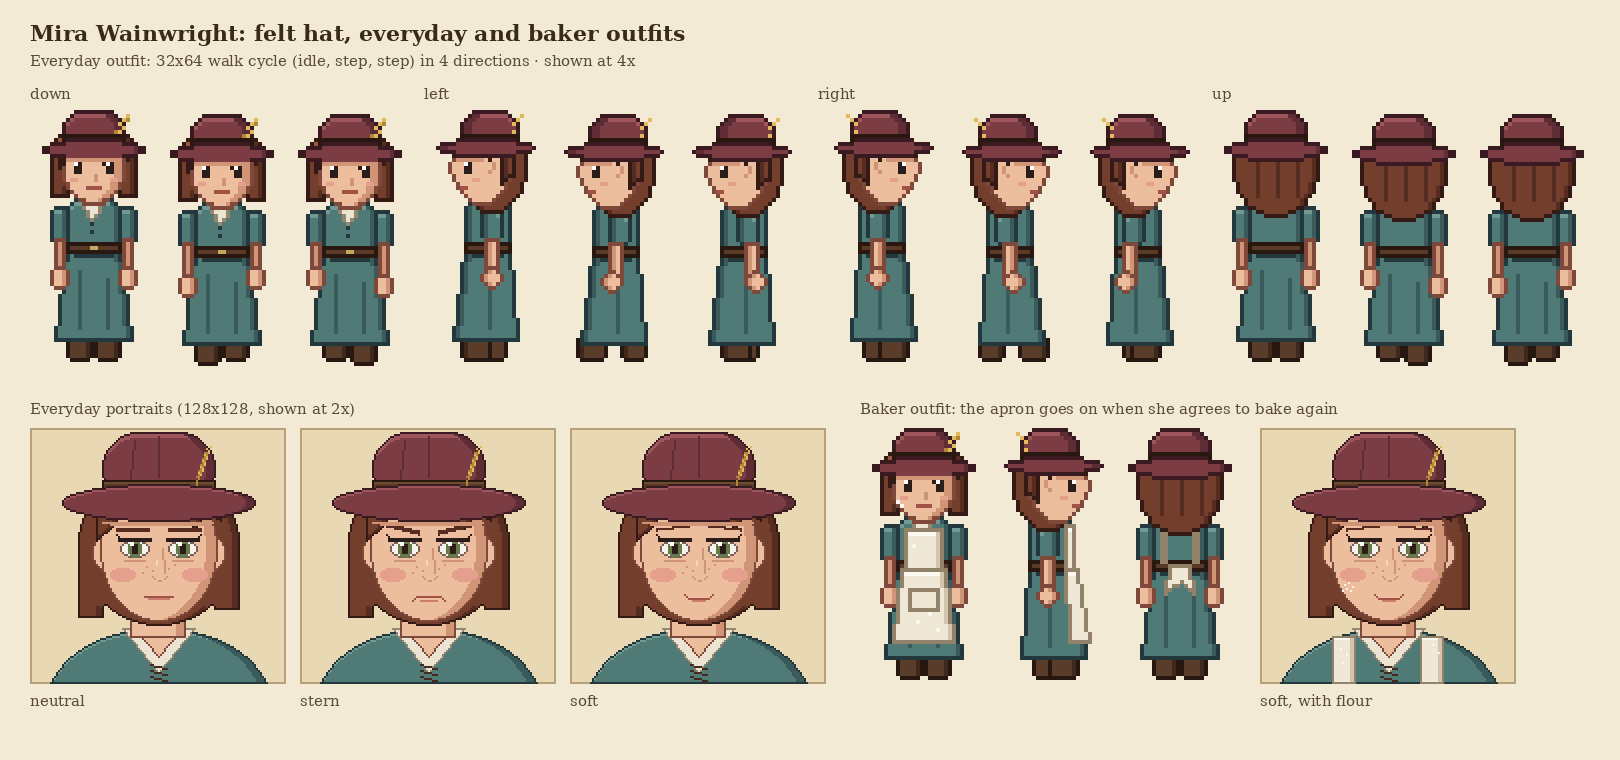
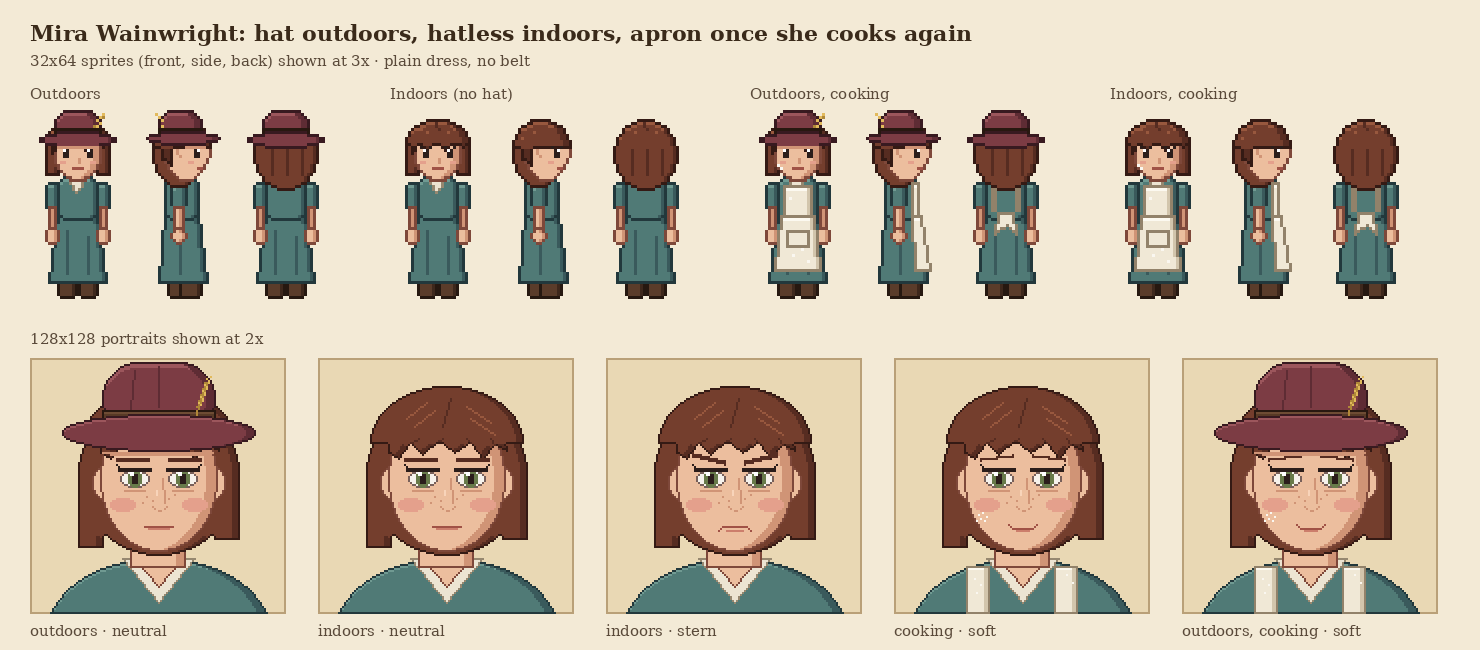
Mira: plain dress without belt, hat outdoors / hatless indoors, apron when cooking
Claude-Session: https://claude.ai/code/session_01NvFAa9nga9ook5zdC6nh3r

diff --git a/tools/concept_art/mira_hd.py b/tools/concept_art/mira_hd.py
@@ -1,6 +1,7 @@
 """Higher-resolution concept art for Mira Wainwright: 32x64 walk sprites and 128x128 portraits.
 
-Two outfits: everyday (felt hat, belted dress) and baker (same + apron, once she agrees to bake again).
+Variants: felt hat outdoors / hatless indoors, and the apron once she decides to cook again.
+Plain dress, no belt: she's a town baker, not an adventurer.
 
 Run: python3 tools/concept_art/mira_hd.py   (writes to docs/concept-art/mira/)
 Built from shaded, outlined shapes (each material has its own outline colour). Concept quality.
@@ -75,7 +76,7 @@ def hat_front(im, by, back=False):
         put(im, [(21, 5 + by), (24, 2 + by)], WHEAT_D)
 
 
-def sprite_front(step=0, back=False, apron=False):
+def sprite_front(step=0, back=False, apron=False, hat=True):
     im = Image.new("RGBA", (32, 64), (0, 0, 0, 0))
     by = 1 if step else 0          # body bob on step frames
     lb, rb = (step, -step)         # boot offsets
@@ -89,11 +90,8 @@ def sprite_front(step=0, back=False, apron=False):
         part(im, lambda d, x0=x0, x1=x1: d.rectangle((x0 + 1, 32 + by, x1 - 1, 41 + by + sw), fill=255), SKIN, light_top=0)
         part(im, lambda d, x0=x0, x1=x1: d.ellipse((x0, 39 + by + sw, x1, 44 + by + sw), fill=255), SKIN, light_top=0)
     part(im, lambda d: d.rounded_rectangle((9, 22 + by, 22, 36 + by), 3, fill=255), DRESS)
-    part(im, lambda d: d.rectangle((9, 33 + by, 22, 35 + by), fill=255), BELT, shade=(0, 0), light_top=0)
     if not back:
-        put(im, [(15, 34 + by), (16, 34 + by)], (196, 168, 96))                      # buckle
         part(im, lambda d: d.polygon([(12, 22 + by), (19, 22 + by), (15, 27 + by)], fill=255), LINEN, shade=(0, 0), light_top=0)
-        put(im, [(15, 28 + by), (15, 30 + by)], DRESS[0])                             # laces
     if apron and not back:
         part(im, lambda d: d.polygon([(10, 35 + by), (21, 35 + by), (23, 53 + by), (8, 53 + by)], fill=255), APRON, shade=(2, 0))
         part(im, lambda d: d.rectangle((11, 25 + by, 20, 35 + by), fill=255), APRON)
@@ -111,7 +109,9 @@ def sprite_front(step=0, back=False, apron=False):
     else:  # bob: crown plus straight locks beside the face (none under the chin)
         part(im, lambda d: (d.ellipse((5, 3 + by, 26, 19 + by), fill=255), d.rectangle((5, 10 + by, 9, 21 + by), fill=255), d.rectangle((22, 10 + by, 26, 21 + by), fill=255)), HAIR)
         part(im, lambda d: d.ellipse((8, 5 + by, 23, 23 + by), fill=255), SKIN, shade=(3, 0), light_top=0)
-        part(im, lambda d: d.polygon([(7, 9 + by), (24, 9 + by), (24, 12 + by), (21, 11 + by), (18, 13 + by), (15, 11 + by), (12, 13 + by), (9, 11 + by), (7, 14 + by)], fill=255), HAIR, light_top=0)
+        part(im, lambda d: (d.chord((5, 3 + by, 26, 19 + by), 180, 360, fill=255),
+                            d.polygon([(7, 9 + by), (24, 9 + by), (24, 12 + by), (21, 11 + by), (18, 13 + by), (15, 11 + by), (12, 13 + by), (9, 11 + by), (7, 14 + by)], fill=255)),
+             HAIR, shade=(3, 0))
         y = 13 + by
         for ex in (11, 19):
             put(im, [(ex, y), (ex + 1, y), (ex, y + 1), (ex + 1, y + 1), (ex, y + 2), (ex + 1, y + 2)], INK)
@@ -122,12 +122,16 @@ def sprite_front(step=0, back=False, apron=False):
         put(im, [(10, 17 + by), (11, 17 + by), (20, 17 + by), (21, 17 + by)], BLUSH)
         if apron:
             put(im, [(9, 18 + by), (10, 19 + by)], FLOUR)
-    hat_front(im, by, back)
-    put(im, [(x, 12 + by) for x in range(9, 23)] if not back else [], SKIN[1])  # shadow under the brim
+    if hat:
+        hat_front(im, by, back)
+        put(im, [(x, 12 + by) for x in range(9, 23)] if not back else [], SKIN[1])  # shadow under the brim
+    else:
+        put(im, [(10, 6 + by), (13, 4 + by), (18, 4 + by), (21, 6 + by), (12, 7 + by), (19, 7 + by)], HAIR[3])
+        put(im, [(15, 4 + by), (15, 5 + by), (16, 6 + by)], HAIR[1])  # parting
     return im
 
 
-def sprite_side(step=0, apron=False):
+def sprite_side(step=0, apron=False, hat=True):
     """Facing right."""
     im = Image.new("RGBA", (32, 64), (0, 0, 0, 0))
     by = 1 if step else 0
@@ -137,7 +141,6 @@ def sprite_side(step=0, apron=False):
     part(im, lambda d: d.polygon([(10, 33 + by), (21, 33 + by), (24, 57 + by), (8, 57 + by)], fill=255), DRESS)
     put(im, [(15, y + by) for y in range(41, 55)], DRESS[1])
     part(im, lambda d: d.rounded_rectangle((10, 22 + by, 21, 36 + by), 3, fill=255), DRESS)
-    part(im, lambda d: d.rectangle((10, 33 + by, 21, 35 + by), fill=255), BELT, shade=(0, 0), light_top=0)
     if apron:
         part(im, lambda d: d.polygon([(19, 35 + by), (22, 35 + by), (25, 53 + by), (20, 53 + by)], fill=255), APRON, shade=(0, 0))
         part(im, lambda d: d.rectangle((19, 24 + by, 21, 35 + by), fill=255), APRON, shade=(0, 0))
@@ -148,30 +151,33 @@ def sprite_side(step=0, apron=False):
     part(im, lambda d: d.rectangle((14, 18 + by, 18, 23 + by), fill=255), SKIN, shade=(0, 0), light_top=0)
     part(im, lambda d: d.ellipse((6, 3 + by, 23, 25 + by), fill=255), HAIR)
     part(im, lambda d: (d.ellipse((10, 5 + by, 24, 23 + by), fill=255), d.rectangle((23, 13 + by, 25, 15 + by), fill=255)), SKIN, shade=(0, 0), light_top=0)
-    part(im, lambda d: d.polygon([(9, 9 + by), (24, 9 + by), (24, 11 + by), (21, 12 + by), (18, 10 + by), (15, 12 + by), (12, 11 + by), (12, 18 + by), (9, 16 + by)], fill=255), HAIR, light_top=0)
+    part(im, lambda d: (d.chord((6, 3 + by, 25, 21 + by), 180, 360, fill=255),
+                        d.polygon([(9, 9 + by), (24, 9 + by), (24, 11 + by), (21, 12 + by), (18, 10 + by), (15, 12 + by), (12, 11 + by), (12, 18 + by), (9, 16 + by)], fill=255)),
+         HAIR, shade=(3, 0))
     put(im, [(14, 13 + by), (14, 14 + by), (15, 15 + by)], SKIN[1])  # ear hint
     put(im, [(20, 13 + by), (21, 13 + by), (20, 14 + by), (21, 14 + by), (20, 15 + by), (21, 15 + by)], INK)
     put(im, [(21, 13 + by)], (255, 255, 255))
     put(im, [(19, 12 + by), (22, 12 + by)], INK)
     put(im, [(21, 19 + by), (22, 19 + by)], MOUTH)
     put(im, [(18, 17 + by), (19, 17 + by)], BLUSH)
-    part(im, lambda d: d.rounded_rectangle((8, 0 + by, 22, 9 + by), 5, fill=255), HAT, shade=(3, 0))
-    part(im, lambda d: d.rectangle((8, 6 + by, 22, 8 + by), fill=255), BAND, shade=(0, 0), light_top=0)
-    part(im, lambda d: d.ellipse((4, 7 + by, 28, 11 + by), fill=255), HAT, shade=(3, 0), light_top=0)
-    put(im, [(9, 3 + by), (8, 2 + by), (7, 1 + by), (9, 5 + by)], WHEAT)
-    put(im, [(x, 12 + by) for x in range(17, 24)], SKIN[1])
+    if hat:
+        part(im, lambda d: d.rounded_rectangle((8, 0 + by, 22, 9 + by), 5, fill=255), HAT, shade=(3, 0))
+        part(im, lambda d: d.rectangle((8, 6 + by, 22, 8 + by), fill=255), BAND, shade=(0, 0), light_top=0)
+        part(im, lambda d: d.ellipse((4, 7 + by, 28, 11 + by), fill=255), HAT, shade=(3, 0), light_top=0)
+        put(im, [(9, 3 + by), (8, 2 + by), (7, 1 + by), (9, 5 + by)], WHEAT)
+        put(im, [(x, 12 + by) for x in range(17, 24)], SKIN[1])
+    else:
+        put(im, [(11, 5 + by), (14, 4 + by), (18, 5 + by), (9, 9 + by), (13, 7 + by)], HAIR[3])
     return im
 
 
 # ---------------------------------------------------------------- 128x128 portrait
-def portrait(expr, apron=False):
+def portrait(expr, apron=False, hat=True):
     im = Image.new("RGBA", (128, 128), (0, 0, 0, 0))
     part(im, lambda d: d.ellipse((8, 100, 120, 176), fill=255), DRESS, shade=(5, 0))
     part(im, lambda d: d.polygon([(46, 100), (82, 100), (64, 122)], fill=255), LINEN, shade=(0, 0), light_top=0)
     part(im, lambda d: d.polygon([(52, 100), (76, 100), (64, 114)], fill=255), SKIN, shade=(0, 0), light_top=0)
     d = ImageDraw.Draw(im)
-    for i in range(3):  # laces on the bodice
-        d.line([(60, 118 + i * 3), (68, 120 + i * 3)], fill=BAND[1] + (255,))
     if apron:
         for x0 in (36, 80):
             part(im, lambda d, x0=x0: d.rectangle((x0, 104, x0 + 11, 127), fill=255), APRON, shade=(3, 0))
@@ -182,7 +188,9 @@ def portrait(expr, apron=False):
     part(im, lambda d: d.ellipse((31, 54, 41, 70), fill=255), SKIN, shade=(0, 0), light_top=0)
     part(im, lambda d: d.ellipse((87, 54, 97, 70), fill=255), SKIN, shade=(0, 0), light_top=0)
     part(im, lambda d: d.ellipse((35, 24, 93, 96), fill=255), SKIN, shade=(6, 0), light_top=0)
-    part(im, lambda d: d.polygon([(33, 36), (95, 36), (95, 46), (88, 43), (82, 50), (76, 42), (68, 47), (60, 41), (52, 48), (46, 42), (40, 50), (33, 56)], fill=255), HAIR, shade=(3, 0), light_top=0)
+    part(im, lambda d: (d.chord((26, 14, 102, 70), 180, 360, fill=255),
+                        d.polygon([(36, 36), (92, 36), (94, 46), (88, 43), (82, 50), (76, 42), (68, 47), (60, 41), (52, 48), (46, 42), (40, 50), (35, 47)], fill=255)),
+         HAIR, shade=(4, 0), light_top=0)
     d = ImageDraw.Draw(im)
     for a, b in (((50, 40), (46, 42)), ((62, 40), (60, 41)), ((74, 40), (76, 42)), ((86, 40), (88, 43))):
         d.line([a, b], fill=HAIR[1] + (255,))
@@ -216,6 +224,16 @@ def portrait(expr, apron=False):
     else:
         d.line([(59, 85), (69, 85)], fill=MOUTH + (255,)); put(im, [(58, 84), (57, 83), (70, 84), (71, 83)], MOUTH)
         d.line([(61, 86), (67, 86)], fill=LIP + (255,))
+    if not hat:
+        # crown of the head: parting and highlights
+        d.line([(66, 20), (62, 34)], fill=HAIR[1] + (255,))
+        for a, b in (((44, 30), (54, 22)), ((48, 34), (58, 26)), ((74, 24), (86, 32)), ((76, 30), (88, 38))):
+            d.line([a, b], fill=HAIR[3] + (255,))
+    bg = Image.new("RGBA", (128, 128), (233, 216, 180, 255))
+    ImageDraw.Draw(bg).rectangle((0, 0, 127, 127), outline=(185, 160, 120))
+    if not hat:
+        bg.alpha_composite(im)
+        return bg
     # felt hat: rounded crown, band with a wheat sprig, wide soft brim
     part(im, lambda d: d.rounded_rectangle((36, 2, 92, 38), 18, fill=255), HAT, shade=(5, 0), light_top=2)
     d = ImageDraw.Draw(im)
@@ -227,23 +245,28 @@ def portrait(expr, apron=False):
     d.line([(82, 30), (88, 12)], fill=WHEAT_D + (255,))
     part(im, lambda d: d.ellipse((16, 28, 112, 46), fill=255), HAT, shade=(5, 0), light_top=1)
     put(im, [(x, 47) for x in range(36, 92)] + [(x, 48) for x in range(40, 88)], SKIN[1])  # brim shadow
-    bg = Image.new("RGBA", (128, 128), (233, 216, 180, 255))
-    ImageDraw.Draw(bg).rectangle((0, 0, 127, 127), outline=(185, 160, 120))
     bg.alpha_composite(im)
     return bg
 
 
-def walk_frames(apron):
+def walk_frames(apron, hat):
     fr = {
-        "down": [sprite_front(0, apron=apron), sprite_front(1, apron=apron), sprite_front(-1, apron=apron)],
-        "up": [sprite_front(0, True, apron), sprite_front(-1, True, apron), sprite_front(1, True, apron)],
-        "right": [sprite_side(0, apron), sprite_side(1, apron), sprite_side(-1, apron)],
+        "down": [sprite_front(st, False, apron, hat) for st in (0, 1, -1)],
+        "up": [sprite_front(st, True, apron, hat) for st in (0, -1, 1)],
+        "right": [sprite_side(st, apron, hat) for st in (0, 1, -1)],
     }
     fr["left"] = [im.transpose(Image.FLIP_LEFT_RIGHT) for im in fr["right"]]
     return fr
 
 
 ORDER = ["down", "left", "right", "up"]
+EXPRS = ["neutral", "stern", "soft"]
+OUTFITS = [  # tag, label, apron, hat
+    ("outdoor", "Outdoors", False, True),
+    ("indoor", "Indoors (no hat)", False, False),
+    ("outdoor_apron", "Outdoors, cooking", True, True),
+    ("indoor_apron", "Indoors, cooking", True, False),
+]
 
 
 def save_sheets(fr, ports, tag):
@@ -268,40 +291,35 @@ def save_sheets(fr, ports, tag):
 
 def main():
     OUT.mkdir(parents=True, exist_ok=True)
-    for old in ("mira_hd_walk_32x64.png", "mira_hd_portraits_128.png", "mira_hd_walk.gif"):
-        (OUT / old).unlink(missing_ok=True)
-    exprs = ["neutral", "stern", "soft"]
-    every = walk_frames(False)
-    baker = walk_frames(True)
-    every_p = [portrait(e) for e in exprs]
-    baker_p = [portrait(e, apron=True) for e in exprs]
-    save_sheets(every, every_p, "everyday")
-    save_sheets(baker, baker_p, "baker")
+    for old in OUT.glob("mira_hd_*"):
+        old.unlink()
+    frames, ports = {}, {}
+    for tag, _, apron, hat in OUTFITS:
+        frames[tag] = walk_frames(apron, hat)
+        ports[tag] = [portrait(e, apron, hat) for e in EXPRS]
+        save_sheets(frames[tag], ports[tag], tag)
 
     serif_b = ImageFont.truetype("/usr/share/fonts/truetype/dejavu/DejaVuSerif-Bold.ttf", 22)
     serif = ImageFont.truetype("/usr/share/fonts/truetype/dejavu/DejaVuSerif.ttf", 15)
     ink, sub = (58, 42, 26), (90, 74, 58)
-    pv = Image.new("RGBA", (1620, 760), (243, 234, 214, 255))
+    pv = Image.new("RGBA", (1480, 760), (243, 234, 214, 255))
     d = ImageDraw.Draw(pv)
-    d.text((30, 20), "Mira Wainwright: felt hat, everyday and baker outfits", font=serif_b, fill=ink)
-    d.text((30, 52), "Everyday outfit: 32x64 walk cycle (idle, step, step) in 4 directions · shown at 4x", font=serif, fill=sub)
-    x = 30
-    for name in ORDER:
-        d.text((x, 85), name, font=serif, fill=sub)
-        for c, im in enumerate(every[name]):
-            pv.alpha_composite(im.resize((128, 256), Image.NEAREST), (x + c * 128, 110))
-        x += 3 * 128 + 10
-    y0 = 400
-    d.text((30, y0), "Everyday portraits (128x128, shown at 2x)", font=serif, fill=sub)
-    for i, (p, e) in enumerate(zip(every_p, exprs)):
-        pv.alpha_composite(p.resize((256, 256), Image.NEAREST), (30 + i * 270, y0 + 28))
-        d.text((30 + i * 270, y0 + 292), e, font=serif, fill=sub)
-    bx = 860
-    d.text((bx, y0), "Baker outfit: the apron goes on when she agrees to bake again", font=serif, fill=sub)
-    for c, name in enumerate(["down", "right", "up"]):
-        pv.alpha_composite(baker[name][0].resize((128, 256), Image.NEAREST), (bx + c * 128, y0 + 28))
-    pv.alpha_composite(baker_p[2].resize((256, 256), Image.NEAREST), (bx + 400, y0 + 28))
-    d.text((bx + 400, y0 + 292), "soft, with flour", font=serif, fill=sub)
+    d.text((30, 20), "Mira Wainwright: hat outdoors, hatless indoors, apron once she cooks again", font=serif_b, fill=ink)
+    d.text((30, 52), "32x64 sprites (front, side, back) shown at 3x · plain dress, no belt", font=serif, fill=sub)
+    for i, (tag, label, _, _) in enumerate(OUTFITS):
+        x = 30 + i * 360
+        d.text((x, 85), label, font=serif, fill=sub)
+        for c, name in enumerate(["down", "right", "up"]):
+            pv.alpha_composite(frames[tag][name][0].resize((96, 192), Image.NEAREST), (x + c * 104, 110))
+    y0 = 330
+    d.text((30, y0), "128x128 portraits shown at 2x", font=serif, fill=sub)
+    picks = [("outdoor", 0, "outdoors · neutral"), ("indoor", 0, "indoors · neutral"), ("indoor", 1, "indoors · stern"),
+             ("indoor_apron", 2, "cooking · soft"), ("outdoor_apron", 2, "outdoors, cooking · soft")]
+    for i, (tag, e, label) in enumerate(picks):
+        x = 30 + i * 288
+        pv.alpha_composite(ports[tag][e].resize((256, 256), Image.NEAREST), (x, y0 + 28))
+        d.text((x, y0 + 292), label, font=serif, fill=sub)
+    pv = pv.crop((0, 0, 1480, 650))
     pv.save(OUT / "mira_hd_preview.png")
 
 

diff --git a/docs/ART.md b/docs/ART.md
@@ -43,9 +43,12 @@
 ## 5. Concept sprites
 - **Mira Wainwright:** [preview](concept-art/mira/mira_preview.png) · [walk GIF](concept-art/mira/mira_walk.gif) · Unity-ready sheets: [walk 16×32](concept-art/mira/mira_walk_16x32.png) (rows: down, left, right, up; columns: idle, step, step) and [portraits 64×64](concept-art/mira/mira_portraits_64.png) (neutral, stern, soft).
   Generated by [tools/concept_art/mira.py](../tools/concept_art/mira.py). **Concept quality**: a style and colour reference for an artist, not final art.
-- **Mira, higher resolution (current look):** felt hat with a wheat sprig, belted teal dress. [Preview](concept-art/mira/mira_hd_preview.png).
-  - Everyday outfit (no apron): [walk GIF](concept-art/mira/mira_hd_everyday_walk.gif) · [walk 32×64](concept-art/mira/mira_hd_everyday_walk_32x64.png) · [portraits 128×128](concept-art/mira/mira_hd_everyday_portraits_128.png)
-  - Baker outfit (apron, once she agrees to bake): [walk GIF](concept-art/mira/mira_hd_baker_walk.gif) · [walk 32×64](concept-art/mira/mira_hd_baker_walk_32x64.png) · [portraits 128×128](concept-art/mira/mira_hd_baker_portraits_128.png)
+- **Mira, higher resolution (current look):** plain teal dress (no belt), felt hat with a wheat sprig **outdoors**, **hatless indoors**, apron **once she decides to cook again**. [Preview](concept-art/mira/mira_hd_preview.png).
+  - Outdoors: [walk GIF](concept-art/mira/mira_hd_outdoor_walk.gif) · [walk 32×64](concept-art/mira/mira_hd_outdoor_walk_32x64.png) · [portraits](concept-art/mira/mira_hd_outdoor_portraits_128.png)
+  - Indoors: [walk GIF](concept-art/mira/mira_hd_indoor_walk.gif) · [walk 32×64](concept-art/mira/mira_hd_indoor_walk_32x64.png) · [portraits](concept-art/mira/mira_hd_indoor_portraits_128.png)
+  - Outdoors, cooking: [walk 32×64](concept-art/mira/mira_hd_outdoor_apron_walk_32x64.png) · [portraits](concept-art/mira/mira_hd_outdoor_apron_portraits_128.png)
+  - Indoors, cooking: [walk 32×64](concept-art/mira/mira_hd_indoor_apron_walk_32x64.png) · [portraits](concept-art/mira/mira_hd_indoor_apron_portraits_128.png)
   - Generated by [tools/concept_art/mira_hd.py](../tools/concept_art/mira_hd.py). (The 16×32 version above still shows her older kerchief + apron look.)
+  - **Rule this sets for all characters:** outfits swap by context (outdoors/indoors) and by story state (e.g. Mira's apron), so each character needs a few sprite-sheet variants, not just one.
 
 **Resolution choice (open):** 16×32 (Stardew scale) vs **32×64** (closer to Graveyard Keeper's detail). 32×64 has 4× the pixels per frame, so every character, animation and tile costs noticeably more to draw. If we go 32×64, tiles become 32×32 and the Pixel Perfect Camera reference resolution doubles (e.g. 960×540).

diff --git a/docs/GAME_DESIGN.md b/docs/GAME_DESIGN.md
@@ -557,7 +557,7 @@ Mira's line is the theme of the game in one sentence: she's *right* that hope ge
 - **Pip's lantern.** Every night Pip puts a lantern in the window "so Dad can find the way home". This is the **first hope anchor** the player sees, and how the anchor mechanic is taught. If the lantern goes out, Pip relights it, again and again.
 - Mira won't let anyone talk about Edric in front of Pip: *"Don't you dare tell my son his father is coming back."*
 - **Sprout.** Pip befriends a tiny root creature that crawled out of the Strange Garden and names it Sprout. Mira hates it. Sprout turns out to be a piece of the dungeon's roots that has "gone wrong" and loves the boy. (Later, Sprout can sense root nodes and lead you through the Roots level.)
-- **Her look tells her arc:** at the start she wears a plain belted dress and a worn felt hat (with a wheat sprig in the band, a hint of who she was). **No apron.** The day she agrees to bake again, she ties on her old apron, and keeps it on for the rest of the game. A small visual sign of hope returning.
+- **Her look tells her arc:** a plain town dress, no belt; a worn felt hat outdoors (with a wheat sprig in the band, a hint of who she was), hatless indoors. **No apron** at the start. The day she agrees to bake again, she ties on her old apron, and keeps it on for the rest of the game. A small visual sign of hope returning.
 - **Reopening the bakery** is Mira's quest: flour (Granary), a working oven (rubble, the forge), water (the well). When the bakery opens, she bakes for everyone, but still won't hope.
 
 **Middle (Acts 2–3)**
